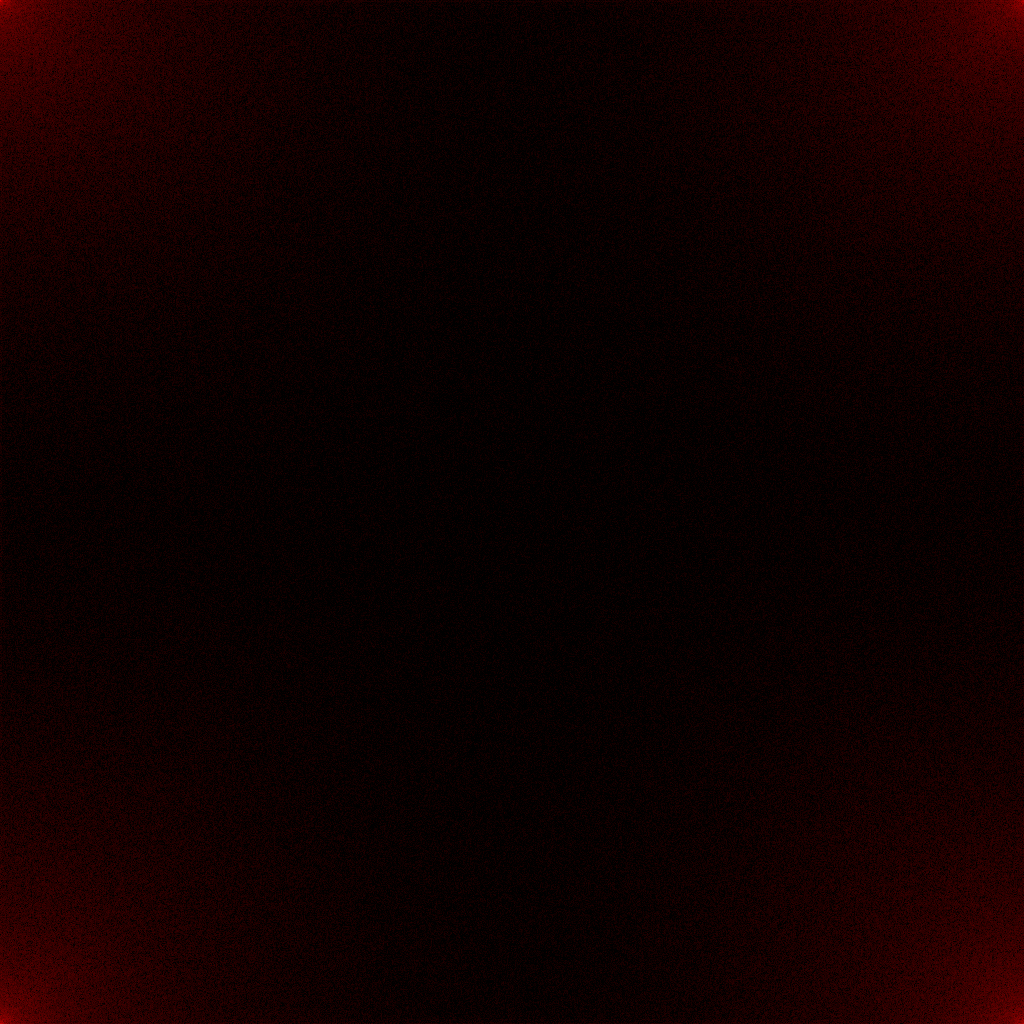
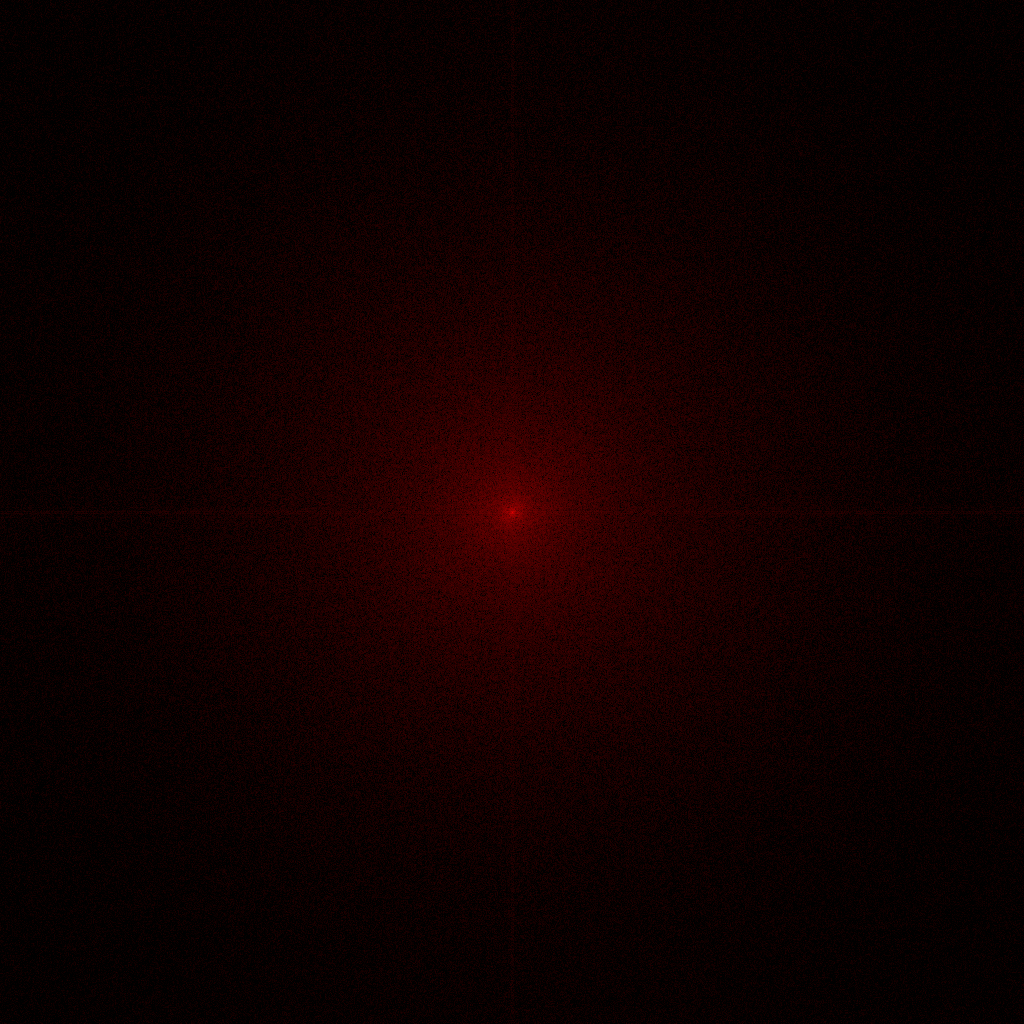
Rearrangement of spectri

diff --git a/src/main.cpp b/src/main.cpp
@@ -5,6 +5,9 @@
 #include <SFML/Graphics.hpp>
 
 
+#define E 2.718281828459045
+
+
 using namespace std;
 using namespace Fourier;
 
@@ -55,11 +58,11 @@ sf::VertexArray getGraph(const vector<Compd>& signal,
 int main(void) {
     const unsigned signalSize = 1024;
 
-    sf::RenderWindow window(sf::VideoMode(1024, 800), "SFML window");
+    /*sf::RenderWindow window(sf::VideoMode(1024, 800), "SFML window");
     window.setFramerateLimit(60);
 
     //  Signal
-    /*vector<Compd> signal, transSignal, invSignal;
+    vector<Compd> signal, transSignal, invSignal;
     signal.resize(signalSize, Compd(0.0f, 0.0f));
     transSignal.resize(signalSize, Compd(0.0f, 0.0f));
     invSignal.resize(signalSize, Compd(0.0f, 0.0f));
@@ -114,7 +117,7 @@ int main(void) {
     for (auto i=0u; i<10; ++i)
         printf("transData[%u]: %0.2f %0.2fi\n", i, transData[i].real(), transData[i].imag());
 
-    {
+    /*{
         printf("Inverse transforming...\n");
         std::vector<Compd> invData(srcImgXSize*srcImgYSize, Compd(0.0, 0.0));
         FFT_2D(&transData[0], &invData[0], srcImgXSize, srcImgYSize, 1u, true, true);
@@ -126,7 +129,7 @@ int main(void) {
             }
         }
         invImg.saveToFile("inverse.png");
-    }
+    }*/
 
     std::vector<double> ampSpectrum(srcImgXSize*srcImgYSize, 0.0);
     std::vector<double> phaseSpectrum(srcImgXSize*srcImgYSize, 0.0);
@@ -145,12 +148,12 @@ int main(void) {
 
     for (auto y=0u; y<srcImgYSize; ++y) {
         for (auto x=0u; x<srcImgXSize; ++x) {
+            auto xx = (x+srcImgXSize/2)%srcImgXSize;
+            auto yy = (y+srcImgYSize/2)%srcImgYSize;
             double r = 255*(0.1*std::log(ampSpectrum[x+y*srcImgXSize]/255.0)+1.0);
             if (r<0.0) r = 0.0;
-            if (y==0 && x<10)
-                printf("r %u: %0.2f\n", x, r);
-            ampSpectrumImg.setPixel(x, y, sf::Color(r, 0, 0));
-            phaseSpectrumImg.setPixel(x, y, sf::Color(255*(phaseSpectrum[x+y*srcImgXSize]/PI2), 0, 0));
+            ampSpectrumImg.setPixel(xx, yy, sf::Color(r, 0, 0));
+            phaseSpectrumImg.setPixel(xx, yy, sf::Color(255*(phaseSpectrum[x+y*srcImgXSize]/PI2), 0, 0));
         }
     }
 
@@ -158,40 +161,45 @@ int main(void) {
     phaseSpectrumImg.saveToFile("phaseSpectrum.png");
 
     printf("Inverse transforming from spectri...\n");
-    const auto spectriImgXSize = ampSpectrumImg.getSize().x;
-    const auto spectriImgYSize = ampSpectrumImg.getSize().y;
-    const auto* ampSpectrumImgData = ampSpectrumImg.getPixelsPtr();
-    const auto* phaseSpectrumImgData = phaseSpectrumImg.getPixelsPtr();
+    {
+        //sf::Image ampSpectrumImg, phaseSpectrumImg;
+        //ampSpectrumImg.loadFromFile(fileN)
 
-    std::vector<Compd> spectrumData(spectriImgXSize*spectriImgYSize, Compd(0.0, 0.0));
-    for (auto y=0u; y<spectriImgYSize; ++y) {
-        for (auto x=0u; x<spectriImgXSize; ++x) {
-            if (y==0 && x<10)
-                printf("r(amp) %u: %0.2f\n", x, ampSpectrumImgData[(x+y*spectriImgXSize)*4]);
-            double amp = 255.0*std::pow(10.0, (10.0*(ampSpectrumImgData[(x+y*spectriImgXSize)*4]/255.0)-10.0));
-            if (y==0 && x<10)
-                printf("amp %u: %0.2f\n", x, amp);
+        const auto spectriImgXSize = ampSpectrumImg.getSize().x;
+        const auto spectriImgYSize = ampSpectrumImg.getSize().y;
+        const auto* ampSpectrumImgData = ampSpectrumImg.getPixelsPtr();
+        const auto* phaseSpectrumImgData = phaseSpectrumImg.getPixelsPtr();
 
-            amp *= spectriImgXSize*spectriImgYSize;
-            double phase = phaseSpectrumImgData[(x+y*spectriImgXSize)*4]*(PI2/255.0);
-            spectrumData[x+y*spectriImgXSize] =  Compd(amp*std::cos(phase), amp*std::sin(phase));
+        std::vector<Compd> spectrumData(spectriImgXSize*spectriImgYSize, Compd(0.0, 0.0));
+        for (auto y=0u; y<spectriImgYSize; ++y) {
+            for (auto x=0u; x<spectriImgXSize; ++x) {
+                auto xx = (x+srcImgXSize/2)%srcImgXSize;
+                auto yy = (y+srcImgYSize/2)%srcImgYSize;
+                double amp = 255.0*std::exp((10.0*(ampSpectrumImgData[(xx+yy*spectriImgXSize)*4]/255.0)-10.0));
+                amp *= spectriImgXSize*spectriImgYSize;
+                double phase = phaseSpectrumImgData[(xx+yy*spectriImgXSize)*4]*(PI2/255.0);
+                spectrumData[x+y*spectriImgXSize] =  Compd(amp*std::cos(phase), amp*std::sin(phase));
+            }
         }
-    }
 
-    for (auto i=0u; i<10; ++i)
-        printf("spectrumData[%u]: %0.2f %0.2fi\n", i, spectrumData[i].real(), spectrumData[i].imag());
+        for (auto i=0u; i<10; ++i)
+            printf("spectrumData[%u]: %0.2f %0.2fi\n", i, spectrumData[i].real(), spectrumData[i].imag());
 
-    std::vector<Compd> spectriInvData(spectriImgXSize*spectriImgYSize, Compd(0.0, 0.0));
-    FFT_2D(&spectrumData[0], &spectriInvData[0], spectriImgXSize, spectriImgYSize, 1u, true, true);
+        std::vector<Compd> spectriInvData(spectriImgXSize*spectriImgYSize, Compd(0.0, 0.0));
+        FFT_2D(&spectrumData[0], &spectriInvData[0], spectriImgXSize, spectriImgYSize, 1u, true, true);
 
-    sf::Image invImg;
-    invImg.create(spectriImgXSize, spectriImgYSize);
-    for (auto y=0u; y<spectriImgYSize; ++y) {
-        for (auto x=0u; x<spectriImgXSize; ++x) {
-            invImg.setPixel(x, y, sf::Color(spectriInvData[x+y*spectriImgXSize].real(), 0, 0));
+        sf::Image invImg;
+        invImg.create(spectriImgXSize, spectriImgYSize);
+        for (auto y=0u; y<spectriImgYSize; ++y) {
+            for (auto x=0u; x<spectriImgXSize; ++x) {
+                int r = spectriInvData[x+y*spectriImgXSize].real();
+                if (r<0) r=0;
+                if (r>255) r=255;
+                invImg.setPixel(x, y, sf::Color(r, 0, 0));
+            }
         }
+        invImg.saveToFile("spectriInverse.png");
     }
-    invImg.saveToFile("spectriInverse.png");
 
     /*while (window.isOpen())
     {
